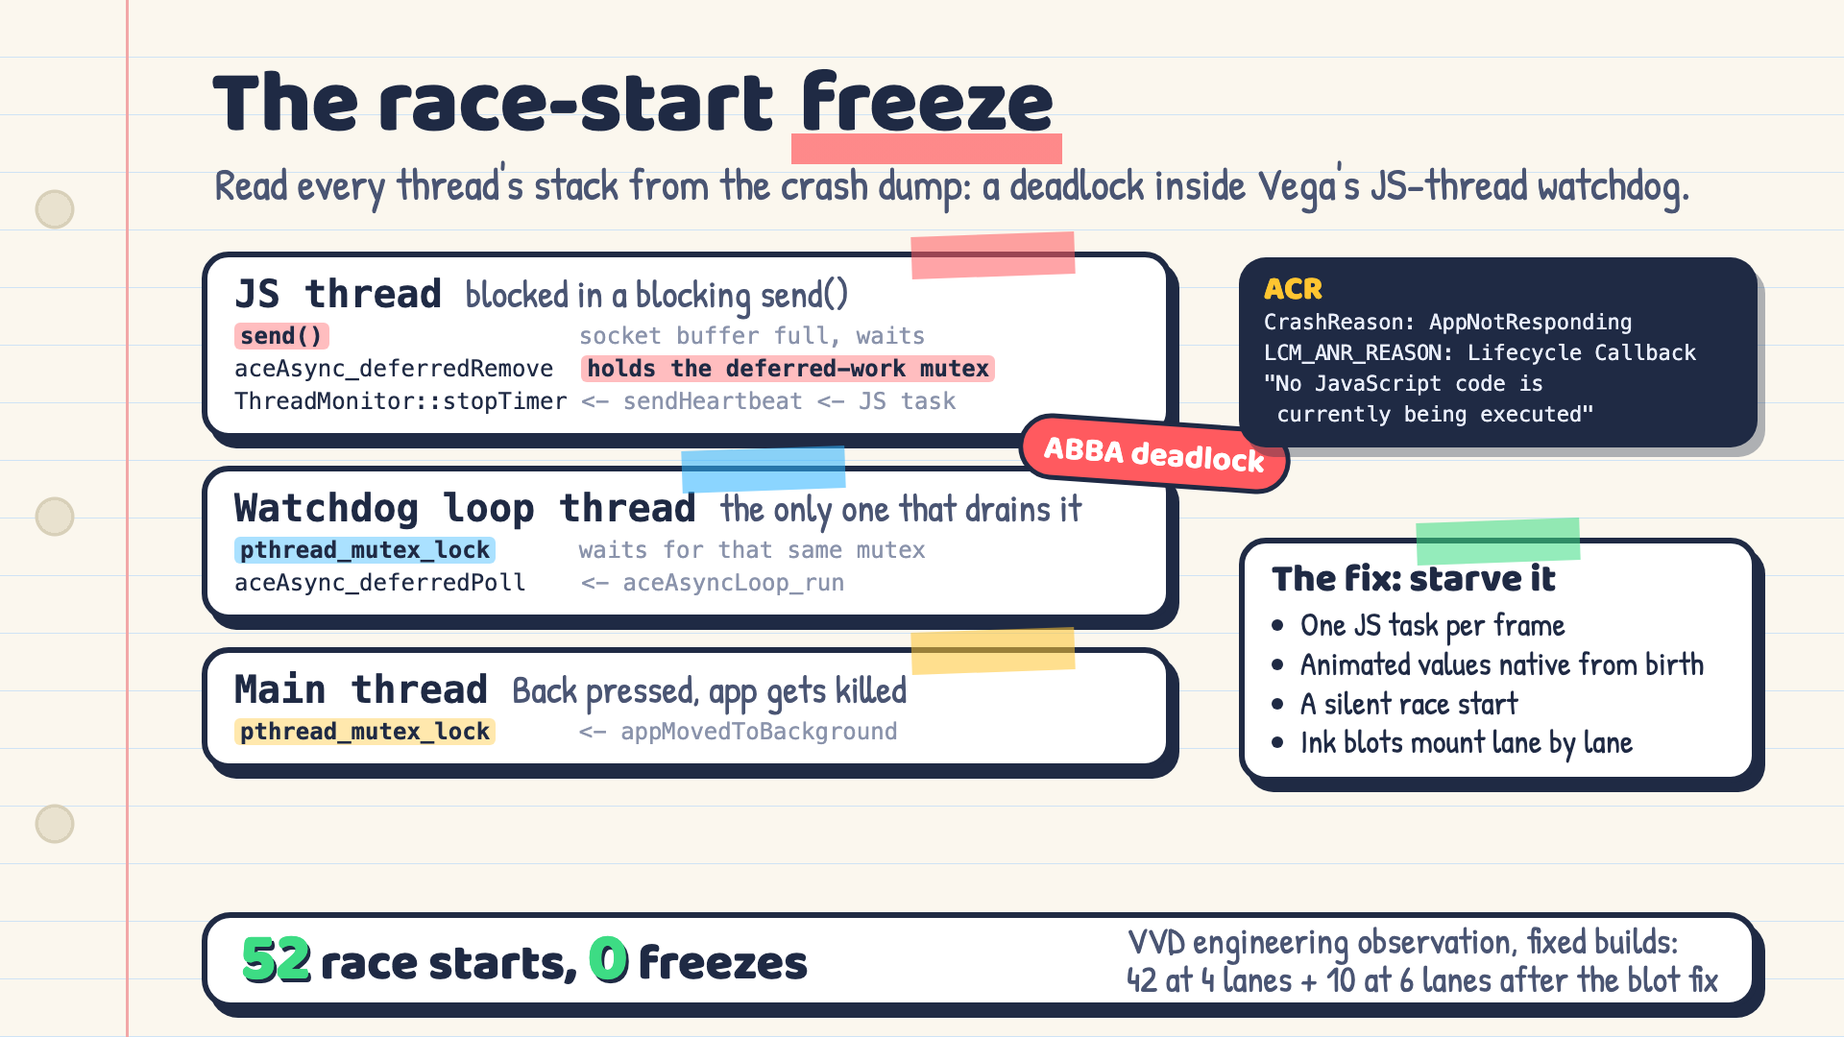
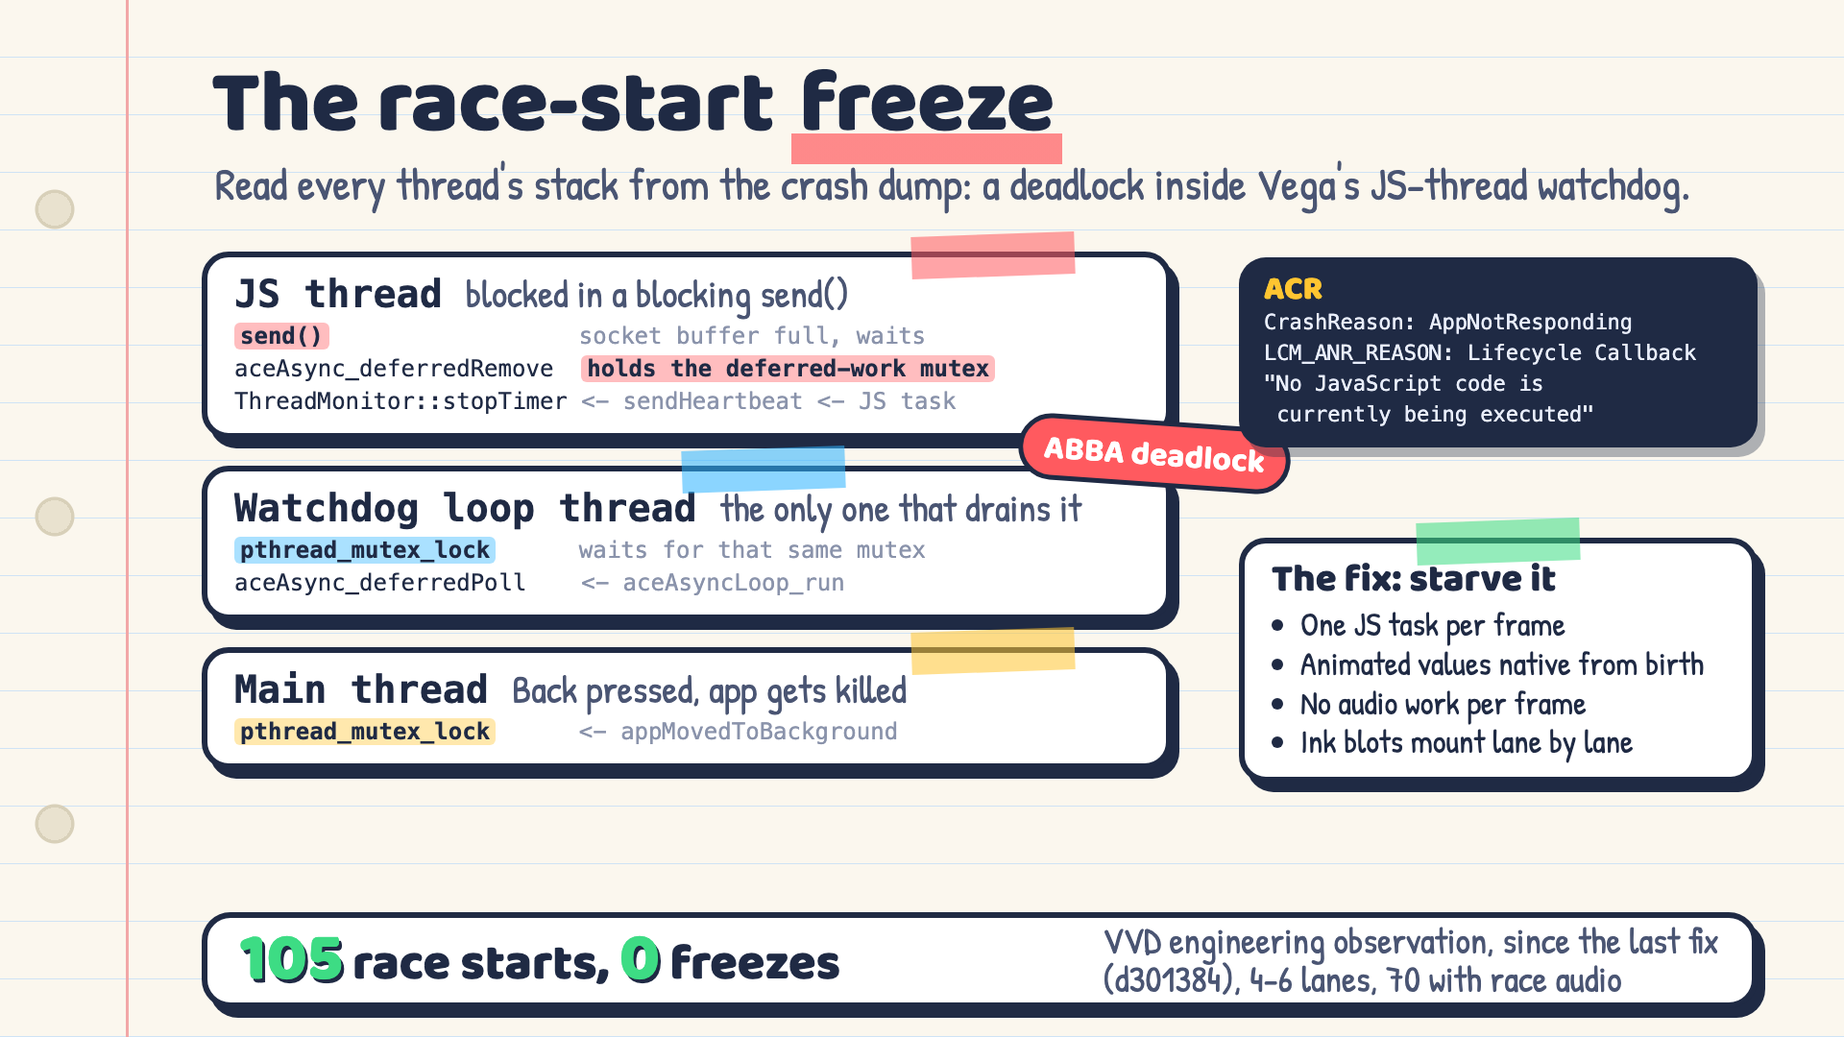
Docs final for the night: VVD-labelled numbers, Claude 4.7 s over 60 calls, corrected fairness and ability sims, race audio and Hall of Fame freeze write-ups, Grown-ups and kids-safety facts, economics by paying share, test total 149; video cards and narration cues updated; ability sim baseline FLY_

Changed region(s): [[0.5938, 0.8861, 0.9375, 0.9778], [0.125, 0.8861, 0.4688, 0.9472], [0.6875, 0.6722, 0.875, 0.7028]]

diff --git a/video/cards/kpi.html b/video/cards/kpi.html
@@ -25,7 +25,8 @@
   <div class="grid" id="grid"></div>
   <div class="wide sticker" id="wide"></div>
   <script>
-    // Values from notes/tv.md "Performance (measured on VVD)", 21 Oct 2026. Edit here, then cards/render.sh kpi.
+    // Values from notes/tv.md "Performance (measured on VVD)", 21 Oct 2026; the race loop from its 23 Oct section (4 lanes,
+    // race audio on); the freezes from the soak since the last fix (FRICTION_LOG #1). Edit here, then cards/render.sh kpi.
     // Cool start: KPI Visualizer, 10 runs, loaded host. Memory: `vega exec perf activity-monitor` (the KPI Visualizer's
     // memory, UI fluidity and focus KPIs need an Appium server; its warm-start test opens the Fire TV launcher, which
     // the VVD lacks, so those can't run on the VVD). The race number is the JS game-loop rate from the perf overlay.
@@ -34,10 +35,10 @@
     const KPI = [
       {label: 'Time to first frame', value: '0.67', unit: 's', target: 'target < 1.5 s', ok: true, tape: 'var(--red)'},
       {label: 'Time to fully drawn', value: '0.67', unit: 's', target: 'target < 8 s', ok: true, tape: 'var(--blue)'},
-      {label: 'Race loop, 6 lanes', value: '55-62', unit: 'ticks/s', target: 'timer-driven, not vsync', tape: 'var(--yellow)'},
+      {label: 'Race loop, 4 lanes', value: '54-59', unit: 'ticks/s', target: 'timer-driven, not vsync', tape: 'var(--yellow)'},
       {label: 'Memory on Home', value: '124', unit: 'MiB', target: 'target < 400 MiB', ok: true, tape: 'var(--green)'},
       {label: 'Memory after 3 races', value: '233', unit: 'MiB', target: 'target < 400 MiB', ok: true, tape: 'var(--purple)'},
-      {label: 'Race-start freezes', value: '0', unit: 'in 52', target: 'soak, fixed builds', ok: true, tape: 'var(--orange)'},
+      {label: 'Race-start freezes', value: '0', unit: 'in 105', target: 'since the last fix', ok: true, tape: 'var(--orange)'},
     ];
     // Phone -> TV input: receive -> applied 6-9 ms (n = 300, 6 live lanes); absolute end-to-end not measurable on the
     // VVD (its clock ran 2 h 11 min behind), so the jitter above the best delivery is shown instead.

diff --git a/video/cards/impact.html b/video/cards/impact.html
@@ -24,13 +24,13 @@
     <div class="tile sticker"><span class="tape" style="--t: var(--blue)"></span><img src="img/crown.svg" alt="">
       <h2>A boost for little ones</h2><p class="hand">+40% speed for 7 and under, on screen.<br>Playtest with kids: <b>TBD</b></p></div>
     <div class="tile sticker"><span class="tape" style="--t: var(--purple)"></span><img src="img/icon_trophy.svg" alt="">
-      <h2>Fire TV Appstore</h2><p class="hand">Next: Kids &amp; Family, from StarFun Games.<br>Price model: <b>TBD</b></p></div>
+      <h2>Fire TV Appstore</h2><p class="hand">Next: Kids &amp; Family, from StarFun Games.<br>Free game, $4.99/yr AI pass (plan).</p></div>
     <div class="tile sticker"><span class="tape" style="--t: var(--green)"></span><div class="ico big">1.6¢</div>
-      <h2>~1.6 cents a creature</h2><p class="hand">One Claude call per drawing ($0.0159).<br>Voices are made on our own server.</p></div>
+      <h2>~1.6 cents a creature</h2><p class="hand">One Claude call per drawing ($0.0159).<br>Voices are made on a Mac at home.</p></div>
   </div>
   <div class="privacy">
     <svg width="64" height="72" viewBox="0 0 64 72" aria-hidden="true"><path d="M16 32 V22 a16 16 0 0 1 32 0 V32" fill="none" stroke="#ffc531" stroke-width="8"/>
       <rect x="6" y="30" width="52" height="38" rx="10" fill="#ffc531"/><circle cx="32" cy="48" r="6" fill="#1F2A44"/></svg>
-    <b>First names only, no accounts.</b><span class="hand">Drawings go to Claude only to create the character.</span>
+    <b>First names only, no accounts.</b><span class="hand">Drawings go to Claude only if a grown-up turns AI on.</span>
   </div>
 </body></html>

diff --git a/video/cards/deadlock.html b/video/cards/deadlock.html
@@ -52,7 +52,7 @@ LCM_ANR_REASON: Lifecycle Callback
 
   <div class="fix sticker"><span class="tape"></span>
     <h3>The fix: starve it</h3>
-    <ul class="hand"><li>One JS task per frame</li><li>Animated values native from birth</li><li>A silent race start</li><li>Ink blots mount lane by lane</li></ul>
+    <ul class="hand"><li>One JS task per frame</li><li>Animated values native from birth</li><li>No audio work per frame</li><li>Ink blots mount lane by lane</li></ul>
   </div>
-  <div class="stat sticker"><div><b>52</b> race starts, <b>0</b> freezes</div><span>VVD engineering observation, fixed builds:<br>42 at 4 lanes + 10 at 6 lanes after the blot fix</span></div>
+  <div class="stat sticker"><div><b>105</b> race starts, <b>0</b> freezes</div><span>VVD engineering observation, since the last fix<br>(d301384), 4-6 lanes, 70 with race audio</span></div>
 </body></html>

diff --git a/video/cards/cutout.html b/video/cards/cutout.html
@@ -20,7 +20,7 @@
     <h1><span class="u" style="--u: var(--green)">doodle-cutout</span></h1>
     <div class="kicker">A phone photo of paper in, a clean sticker out.</div>
   </div>
-  <div class="pills"><span class="pill fill" style="--f: var(--green)">open source</span><span class="pill fill" style="--f: var(--yellow)">MIT</span><span class="pill fill" style="--f: var(--blue)">25 tests</span></div>
+  <div class="pills"><span class="pill fill" style="--f: var(--green)">open source</span><span class="pill fill" style="--f: var(--yellow)">MIT</span><span class="pill fill" style="--f: var(--blue)">42 tests</span></div>
 
   <div class="row">
     <div class="step sticker"><span class="n">1</span><div class="img" style="background: url(img/monster-photo.jpg) center / cover"></div><div class="cap">Photo</div></div>

diff --git a/video/cards/architecture.html b/video/cards/architecture.html
@@ -64,7 +64,7 @@
       <circle cx="47" cy="62" r="5" fill="#1F2A44"/><circle cx="73" cy="62" r="5" fill="#1F2A44"/>
       <path d="M50 73 Q60 80 70 73" fill="none" stroke="#1F2A44" stroke-width="4" stroke-linecap="round"/></svg>
     <h2>Vega TV app</h2>
-    <div class="sub hand"><b>React Native for Vega</b><br>on Fire TV: reveal, race,<br>results, D-pad menus.</div>
+    <div class="sub hand"><b>React Native for Vega</b>,<br>built for Fire TV: reveal, race,<br>results, D-pad menus.</div>
   </div>
 
   <div class="sat sticker" style="left: 440px; width: 530px"><span class="tape" style="--t: var(--purple); left: 30%"></span>

diff --git a/video/cards/title.html b/video/cards/title.html
@@ -15,6 +15,6 @@
   <div class="center">
     <div class="wordmark"><span>S</span><span>k</span><span>e</span><span>t</span><span>c</span><span>h</span><span>l</span><span>i</span><span>n</span><span>g</span><span>s</span></div>
     <div class="tag"><b>Draw</b> it. <b>Snap</b> it. Watch it <b>race!</b></div>
-    <div class="pill"><span class="dot"></span>Running on Fire TV · Vega OS</div>
+    <div class="pill"><span class="dot"></span>Built for Fire TV · Vega OS</div>
   </div>
 </body></html>

diff --git a/video/README.md b/video/README.md
@@ -4,6 +4,11 @@ Everything to cut the under-3-minute demo video. The middle of the video is the 
 `./build.sh` turns footage, narration, cards and music into a 1080p30 H.264 MP4 at -14 LUFS. Every clip in `edl.json`
 is a named footage slot; a slot without its file becomes a labelled placeholder, so a draft always builds.
 
+**No kids' footage?** Do not mark the `kids-*` slots optional (that cuts 0:10-1:26). Use the no-kids backup cut
+instead (`video/out/backup-final.mp4`, built with EDL=edl-backup.json): the real phone page recorded
+with Playwright, the VVD, cards and narration. Set `impact.html` to "Playtest with kids: not yet" and delete
+"Filmed at our playtest..." from the YouTube description.
+
 ```
 video/
   build.sh, build.mjs   the edit: edl.json -> out/*.mp4   (./build.sh --slots lists the footage slots)
@@ -34,7 +39,7 @@ For Fri 23 Oct, 3-7 pm. Mac muted while scrubbing (house rule); listen to the dr
 2. **Set the numbers in `edl.json`.** `ss` per slot; both `ss` of `kids-race` (Syncing below), then `ss` of
    `kids-results` and `kids-again` (the podium, the OK on Play again: same recording); `crop` for `open-race` and
    `ab-*` if the creature is small; `speed` of `open-card` (its guide has the formula; the build writes "Sped up Nx"
-   on screen by itself); `audioLag` once for all VVD segments (Race sound below).
+   on screen by itself); `audioLag` per recording (Race sound below).
 3. **Type the words.** Every `TBD` in `edl.json`: the playtest tag on `kids-draw` (how many children, their ages) and
    each `say` line, with the exact words and an age ("age 6"), never a name. Delete a `say` line nobody spoke. Then
    the cards: `impact.html` ("Playtest with kids": a real result, or "not yet"), `claude.html` (the cold-open
@@ -89,11 +94,11 @@ is covered. Creature lines need no caption: the TV shows each one in its own spe
 | Metrics after the hook, labelled | KPI and deadlock cards at 2:13-2:32: "VVD observations", "Engineering observations on a simulator, not Fire TV hardware performance", loop rate in ticks/s ("timer-driven, not vsync"), input "Wi-Fi not included". |
 | No children in the evidence | 0:10-1:26 is the 23 Oct playtest: join, snap, the ability card, Reveal with voices, race, Results, race 2 without a restart, their own words. |
 | Silent race | The phones' race sounds are real (room camera). Music never passes for game sound. |
-| Parent gate, AI consent | `grownups` slot (optional, if it ships tonight): AI personas on/off, Clear Hall of Fame. |
+| Parent gate, AI consent | `grownups` slot: `vvd-grownups` (parent gate, AI OFF/ON, Clear Hall then Keep). |
 | Hold-to-run not sent | `open-input` and `kids-hold` show it. |
 | "The youngest can really win" without evidence | Not claimed. The impact card shows the mechanism (+40% speed for 7 and under) and the playtest result only once it exists. |
-| Economics | VO "Under two cents a creature"; card "~1.6 cents a creature ($0.0159)" from the 60-run benchmark; price model TBD (your call). |
-| Where does Kokoro run? | Architecture card ("on the relay server, offline") and VO ("on our own server"). |
+| Economics | VO "Under two cents a creature"; card "~1.6 cents a creature ($0.0159)" from the 60-run benchmark; price model: a free offline game plus a $4.99-a-year Family Pass (plan, not built). |
+| Where does Kokoro run? | Architecture card ("on the relay server, offline") and VO ("on a Mac at home"). |
 | AI output safety | Claude card ("Asked for 5-year-old-safe output; every field is checked and clamped") and VO. |
 
 ## Storyboard
@@ -156,12 +161,35 @@ put a sticker on a creature whose card disagrees.
 2. **Abilities (D1-D4).** Four phones (or "Not <name>? Switch player" on fewer), `./capture.sh vvd-races 170`, race;
    repeat as `vvd-races2` until there is a WINGS!, WHEELS!, SPRINGS! and BIG ROAR! (point an `ab-*` slot's `src` at
    the file that has it).
-3. **Grown-ups**, if it ships tonight: `./capture.sh vvd-grownups 30`, the parent gate, then the two switches. Don't
+3. **Grown-ups**: `./capture.sh vvd-grownups 30`, the parent gate, then the two switches. Don't
    clear the Hall.
 4. **Remote** (optional): only if a remote types arrow keys and Enter into the live view (a USB air-mouse remote does;
    check the focus moves). Film the hand and the TV focus moving in one shot. No Fire TV remote as a prop.
 5. **You** (optional): `clips/who.mp4`, 7 s on camera without live sound, or the StarFun logo as `clips/who.png`.
 6. **Narration** into `vo/` (table below).
+
+**Status, 23 Oct 04:30 (VVD-only footage, sound on, Mac muted).** Filmed with the Demo party (bots, no phones) on a
+clean hall of 6 test creatures (synthetic art, Claude personas, real voices); `server/data` was backed up and restored
+(hall.json sha unchanged). Every file is 1920x1080 VP9 + Vorbis; the only decode warnings are the known audio
+timestamp gaps.
+- Done: `vvd-home` (16 s), `vvd-grownups` (45 s: gate, AI OFF/ON, Clear Hall then Keep, Done; `grownups` slot),
+  `vvd-lobby` (24 s: Start party, QR, room code), `vvd-races` (180 s: Demo Lobby, Reveal of 4, countdown, race,
+  Results; the `ab-*` slots), `vvd-race2` (89 s: Play again, race 2 to its finish, Results), `vvd-hall` (55 s:
+  browse, OK: Race again; `hall` slot until the kids' creatures exist), `vvd-lobby-guest` (16 s: the Hall of Famer
+  in a new Lobby), `vvd-reveal-cold` (75 s: Demo party right after an app launch, Reveal, race start).
+- `ab-*` in `vvd-races.webm` (pop = first frame of the word): WINGS! 66.5, WHEELS! 68.25, SPRINGS! 71.25,
+  BIG ROAR! 69.0, so `ss` 65.5 / 67.2 / 70.3 / 68.0. Synced 4.5 s cuts of the same moments: `clips/ab-fly.mp4`,
+  `ab-roll.mp4`, `ab-hop.mp4`, `ab-walk.mp4` (H.264/AAC, pop at 1.2 s: `ss` 0.2, no `audioLag`; `ab-hop` has no game
+  sound at that moment).
+- `audioLag` measured on the countdown (3-2-1-GO digits against their sounds): 0.4 s in `vvd-races` (10 fps), about
+  1.1 s in `vvd-reveal-cold` (2 fps). It differs per recording: measure each one.
+- Reveal voices run one card late in both recordings (filmed before `258959b`, which fixed it: intros now start
+  1.1-1.4 s into their own card): each intro starts 3.6-6 s after its card, plays over the next creature's card,
+  and the last is cut by the race. Pick Reveal moments by ear, cut to the card that matches the voice, or
+  re-record the Reveal on the current build.
+- 21 Oct recordings (old build) moved to `clips/old-21oct/`.
+- Still for the morning (hands, camera, phones): the open (`open-*`, D1 on a real phone), `open-race` (D1's own
+  WINGS!), the remote (optional), `who` (optional), narration. All `kids-*` slots are the playtest.
 
 ### Tomorrow 1-3 pm: the kids' playtest
 
@@ -194,15 +222,15 @@ it if it froze on a second visit (runsheet 7, `notes/tv.md` F11).
 ## Race sound
 
 The VVD recording's own sound is the TV's sound: VVD segments set `liveDb` and `audioLag`. The recorder writes the
-sound about 1.5 s late (21 Oct rehearsal). Measure it once: the Reveal's "Meet the Sketchlings!" narrator line starts
+sound about 1.5 s late (21 Oct rehearsal). Measure it for each recording: the Reveal's "Meet the Sketchlings!" narrator line starts
 on the Reveal's first frame, so
 
 ```sh
 ffmpeg -i clips/open-reveal.webm -af silencedetect=n=-40dB:d=0.3 -f null - 2>&1 | grep silence_end
 ```
 
-gives the sound's start; `audioLag` = that time minus the time of the Reveal's first frame. Set it on every VVD
-segment. Check a recording carries sound without playing it:
+gives the sound's start; `audioLag` = that time minus the time of the Reveal's first frame. Set it on every
+segment cut from that recording. Check a recording carries sound without playing it:
 `ffmpeg -i clips/<name>.webm -af ebur128 -f null - 2>&1 | grep ' I:'`.
 
 - The phones make the race sounds (Web Audio, speaker toggle on). The room camera records them; segments with the
@@ -210,7 +238,7 @@ segment. Check a recording carries sound without playing it:
 - The TV race plays the narrator's 3-2-1-GO, ROAR and photo-finish clips. `note-music` says "Race sounds are the
   app's own." while music plays under the race. If the TV's race is silent in the footage (`MUTE=1`), set
   `RACE_HAS_SOUND = false` in `cards/note-music.html` and render it.
-- Sound-on build unstable on the VVD (`notes/tv.md` F7, F13): film with `MUTE=1`, drop `liveDb` from the VVD
+- If a sound-on build crashes on the VVD (the old F7/F13 crash in `notes/tv.md`, fixed on 21 Oct): film with `MUTE=1`, drop `liveDb` from the VVD
   segments and lay the voices in as cues with `"note": true` (Voice clips below).
 
 ## Capture the VVD
@@ -219,9 +247,9 @@ segment. Check a recording carries sound without playing it:
 ./capture.sh kids-r1-race1 180   # -> clips/kids-r1-race1.webm, 1920x1080 VP9 30 fps; Ctrl-C stops early
 ```
 
-It runs `adb -s emulator-5554 emu screenrecord start --time-limit N --fps 30 <abs path>` with Unity's adb (override
+It runs `adb -s emulator-5554 emu screenrecord start --time-limit N --fps 30 <abs path>` with the adb on PATH (override
 with `ADB=...`, `SERIAL=...`), waits for the file and prints its length. Before filming: keep the Mac's memory free
-(`notes/tv.md` F5, F12: quit other apps) and use a build from d301384 or later.
+(`notes/tv.md` F5, F12: quit other apps) and use a build from 258959b or later.
 
 What the 21 Oct dress rehearsal showed: the race (about 60 s) is longer than its split (19 s), so the split starts
 mid-race at the same moment in both files; OK on Results is Play again, so OK at the finish skips Results; the
@@ -257,11 +285,11 @@ are read by macOS `say` in drafts (marked `TTS`). Each line fits its segment at 
 | `vo/ab-roll.m4a` | ab-roll (2.9 s) | Draw wheels, and it zooms on flat ground. |
 | `vo/ab-hop.m4a` | ab-hop (2.9 s) | Draw long legs, and it jumps higher. |
 | `vo/ab-walk.m4a` | ab-walk (2.9 s) | Draw a big body, and its ROAR clears the ink. |
-| `vo/arch.m4a` | arch (8.2 s) | Phones open a web page, no install. Our Bun relay links them to the TV and voices every creature with Kokoro, on our own server. |
+| `vo/arch.m4a` | arch (8.2 s) | Phones open a web page, no install. Our Bun relay links them to the TV and voices every creature with Kokoro, on a Mac at home. |
 | `vo/cutout.m4a` | cutout (6.7 s) | Our open-source library, doodle-cutout, turns a phone photo into a clean sticker, right in the phone's browser. |
-| `vo/claude.m4a` | claude (8.7 s) | Claude reads the drawing and decides how it plays. Its prompt asks for five-year-old-safe answers, and every field is checked before the TV sees it. |
+| `vo/claude.m4a` | claude (8.7 s) | Claude reads the drawing and suggests how it plays; the child has the last word. It's asked for five-year-old-safe answers, and every field is checked before the TV sees it. |
 | `vo/kpi.m4a` | kpi (8.7 s) | Engineering observations on the virtual device, not Fire TV hardware: first frame in two thirds of a second, memory well under the limit. |
-| `vo/deadlock.m4a` | deadlock (9.7 s) | Races sometimes froze at the start; the crash dump showed a watchdog deadlock. After the fix, fifty-two starts on the virtual device, zero freezes. |
+| `vo/deadlock.m4a` | deadlock (9.7 s) | Races sometimes froze at the start; the crash dump showed a watchdog deadlock. After the fix, a hundred and five starts on the virtual device, zero freezes. |
 | `vo/who.m4a` | who (6.5 s) | I'm a solo developer at StarFun Games in Sri Lanka. I built this so our screen time starts with crayons. |
 | `vo/impact.m4a` | impact (9.9 s) | It's for families with kids four to ten. Little ones race with a visible speed boost. Under two cents a creature, first names only, no accounts. |
 
@@ -282,10 +310,12 @@ are drawn: `svg.to`). The build renders a card only when its PNG is missing; aft
 - Not in the timeline: `title`, `super` (for a thumbnail), `caption-think`, `caption-offline`, `clock`.
 
 Still to fill (they say **TBD** on screen):
-- `impact.html`: "Playtest with kids: TBD" (a real result from tomorrow, or "not yet") and "Price model: TBD".
-- `claude.html`: shows Captain Bleep, a real `source: "claude"` persona (walk). After tomorrow, paste the cold-open
-  creature's real JSON from the Hall of Fame into `P`, copy its sprite to `cards/img/` and set `SPRITE`. Never type a
-  persona by hand.
+- `impact.html`: "Playtest with kids: TBD" (a real result from tomorrow, or "not yet").
+- `claude.html`: shows Captain Bleep, a real `source: "claude"` persona (walk). To swap in a better one, paste a
+  team-drawn creature's real JSON from the Hall of Fame into `P`, copy its sprite to `cards/img/` and set `SPRITE`.
+  Never a child's creature: `cards/` (the HTML, `img/` and the rendered PNGs) is tracked in git, so a child's drawing,
+  persona or first name never goes there. Children's creatures appear only in footage (`clips/`, `out/`, not in git).
+  Never type a persona by hand.
 - `note-music.html`: `RACE_HAS_SOUND` (Race sound).
 
 ## Honesty rules for the edit
@@ -315,7 +345,7 @@ Still to fill (they say **TBD** on screen):
 > Sketchlings turns a child's crayon drawing into a talking racer on the TV. Draw on paper, snap it with a phone,
 > and watch it peel off the page, get a name, stats and an ability from Claude vision, speak in its own voice, and race
 > the whole family. What you draw changes how you play: wings float over ink, wheels zoom, long legs jump, a big body
-> ROARs. Filmed at our playtest with TBD children aged TBD on 23 Oct 2026.
+> ROARs. Filmed at our playtest with TBD children aged TBD on 23 Oct 2026. [Delete this sentence if no children played.]
 >
 > Built for Fire TV on Vega OS with React Native for Vega; shown running on Amazon's Vega Virtual Device (the Fire TV
 > simulator), not on Fire TV hardware. Phones join with a QR code, no app install, and race with taps, holds, jumps and
@@ -323,9 +353,9 @@ Still to fill (they say **TBD** on screen):
 >
 > How it works: a phone web app cuts the drawing out with doodle-cutout (our open-source MIT library), a small Bun
 > relay links the phones and the TV over WebSocket, Claude vision writes each creature's persona (asked for
-> 5-year-old-safe output, every field checked, an offline generator as the fallback) and Kokoro, running on our own
-> server, gives it a voice. Privacy: first names only, no accounts; only the cut-out leaves the phone, and drawings go
-> to Claude only to create the character.
+> 5-year-old-safe output, every field checked, an offline generator as the fallback) and Kokoro, running on a Mac on
+> the home network, gives it a voice. Privacy: first names only, no accounts; only the cut-out leaves the phone, and
+> it goes to Claude only when a grown-up turns AI personas on.
 >
 > Code: https://github.com/Harindulk/sketchlings
 > doodle-cutout: https://github.com/Harindulk/doodle-cutout
@@ -340,4 +370,4 @@ Still to fill (they say **TBD** on screen):
 > 2:38 Who it's for
 
 Chapters follow the timeline with every slot filled; take the times from the final build's printout (YouTube needs
-each chapter to be at least 10 s). Fill both TBDs. Upload as Public, in English (contest rules).
+each chapter to be at least 10 s). Fill both TBDs, or delete that sentence (and its brackets) if no children played. Upload as Public, in English (contest rules).
